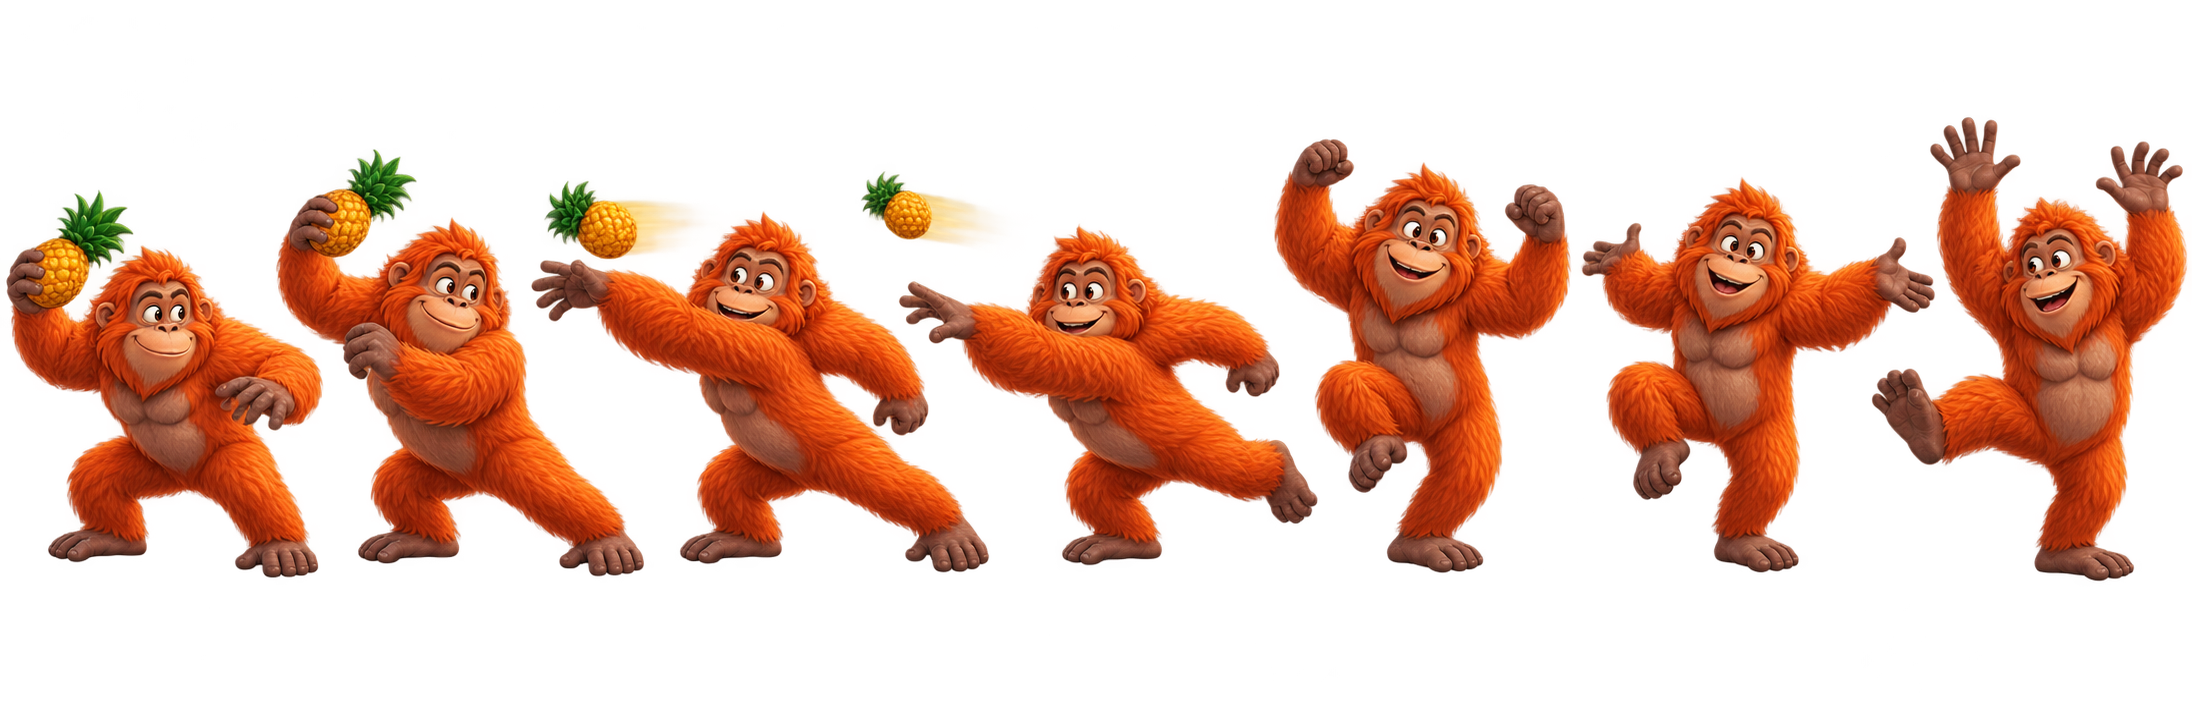
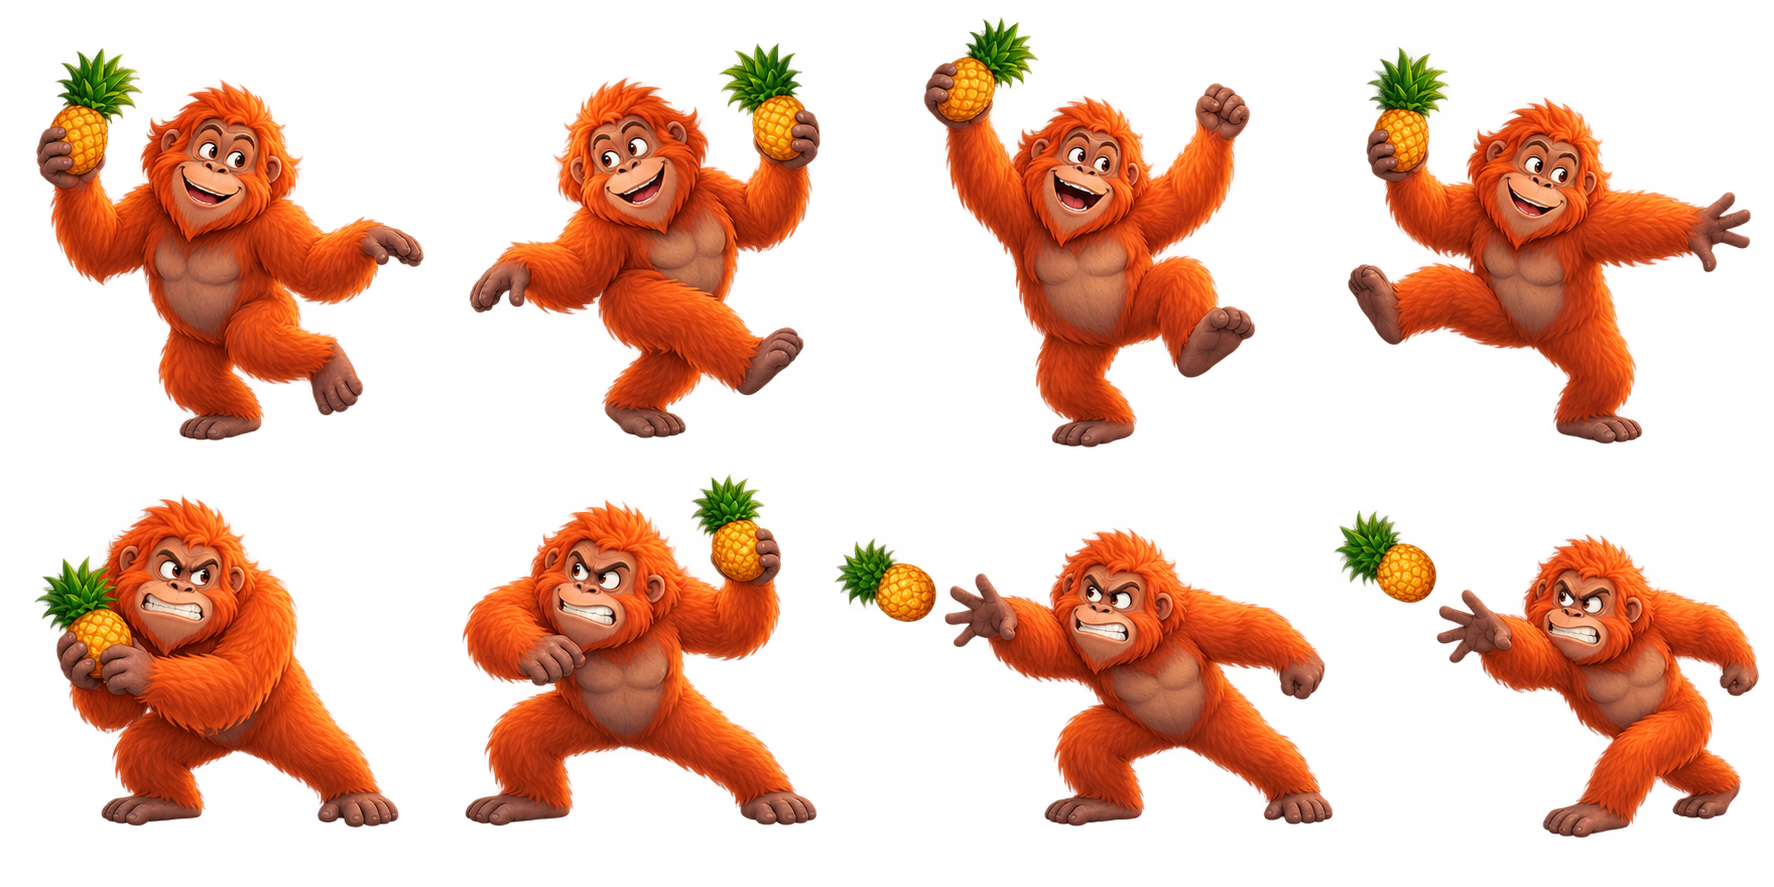
feat: update orangutan sprite handling and improve animation frame selection

diff --git a/lib/jungle-water-art.ts b/lib/jungle-water-art.ts
@@ -20,26 +20,21 @@ export function drawOrangutan(ctx: CanvasRenderingContext2D, o: Orangutan, camer
   const dancing = o.state === 'dance', beat = Math.sin(o.age * 7);
   const sway = dancing ? beat * 7 : o.state === 'throw' ? -9 * (1 - o.age / 0.25) : 3;
   if (sprite?.complete && sprite.naturalWidth) {
-    // The supplied orangutan art is a seven-frame strip: four pineapple
-    // throw poses, then three celebratory dance poses. Crop the active cell
-    // rather than squeezing the entire sheet into one character.
-    // The art is 2192px wide: seven 313px frames plus one trailing pixel.
-    // Integer source bounds plus a tiny inset stop canvas smoothing from
-    // sampling an adjacent pose along the frame edge.
-    const cellWidth = 313, inset = 2;
-    const frame = o.stunned !== undefined ? 6 : o.state === 'dance'
-      ? 4 + Math.floor(o.age * 6) % 3
+    // The supplied sheet is an authored four-by-two sequence: joyful dance
+    // poses across the top and the pineapple wind-up/release across the
+    // bottom. Select a whole cell to retain its transparent silhouette.
+    const cellWidth = sprite.naturalWidth / 4, cellHeight = sprite.naturalHeight / 2, inset = 2;
+    const [column, row] = o.stunned !== undefined ? [3, 1] : o.state === 'dance'
+      ? [Math.floor(o.age * 6) % 4, 0]
       : o.state === 'windup'
-        ? (o.age < 0.28 ? 0 : 1)
+        ? [o.age < 0.28 ? 0 : 1, 1]
         : o.state === 'throw'
-          ? (o.age < 0.12 ? 2 : 3)
-          : 3;
+          ? [o.age < 0.12 ? 2 : 3, 1]
+          : [0, 1];
     ctx.save(); ctx.translate(x, feet);
     ctx.fillStyle = '#61432b'; ctx.fillRect(-39, 0, 78, 35);
     ctx.fillStyle = '#b28a52'; ctx.beginPath(); ctx.ellipse(0, 0, 39, 9, 0, 0, Math.PI * 2); ctx.fill();
-    // These measured bounds remove the transparent top/bottom band while
-    // retaining every hand, foot, and the pineapple in the throw poses.
-    ctx.drawImage(sprite, frame * cellWidth + inset, 92 + inset, cellWidth - inset * 2, 470 - inset * 2, -64, -192, 128, 192); ctx.restore();
+    ctx.drawImage(sprite, column * cellWidth + inset, row * cellHeight + inset, cellWidth - inset * 2, cellHeight - inset * 2, -108, -206, 216, 206); ctx.restore();
     // The sheet contains the fruit through release; while he dances between
     // throws, keep the held pineapple visible at the launch hand.
     if (o.state === 'dance' && o.throws < 3) {
